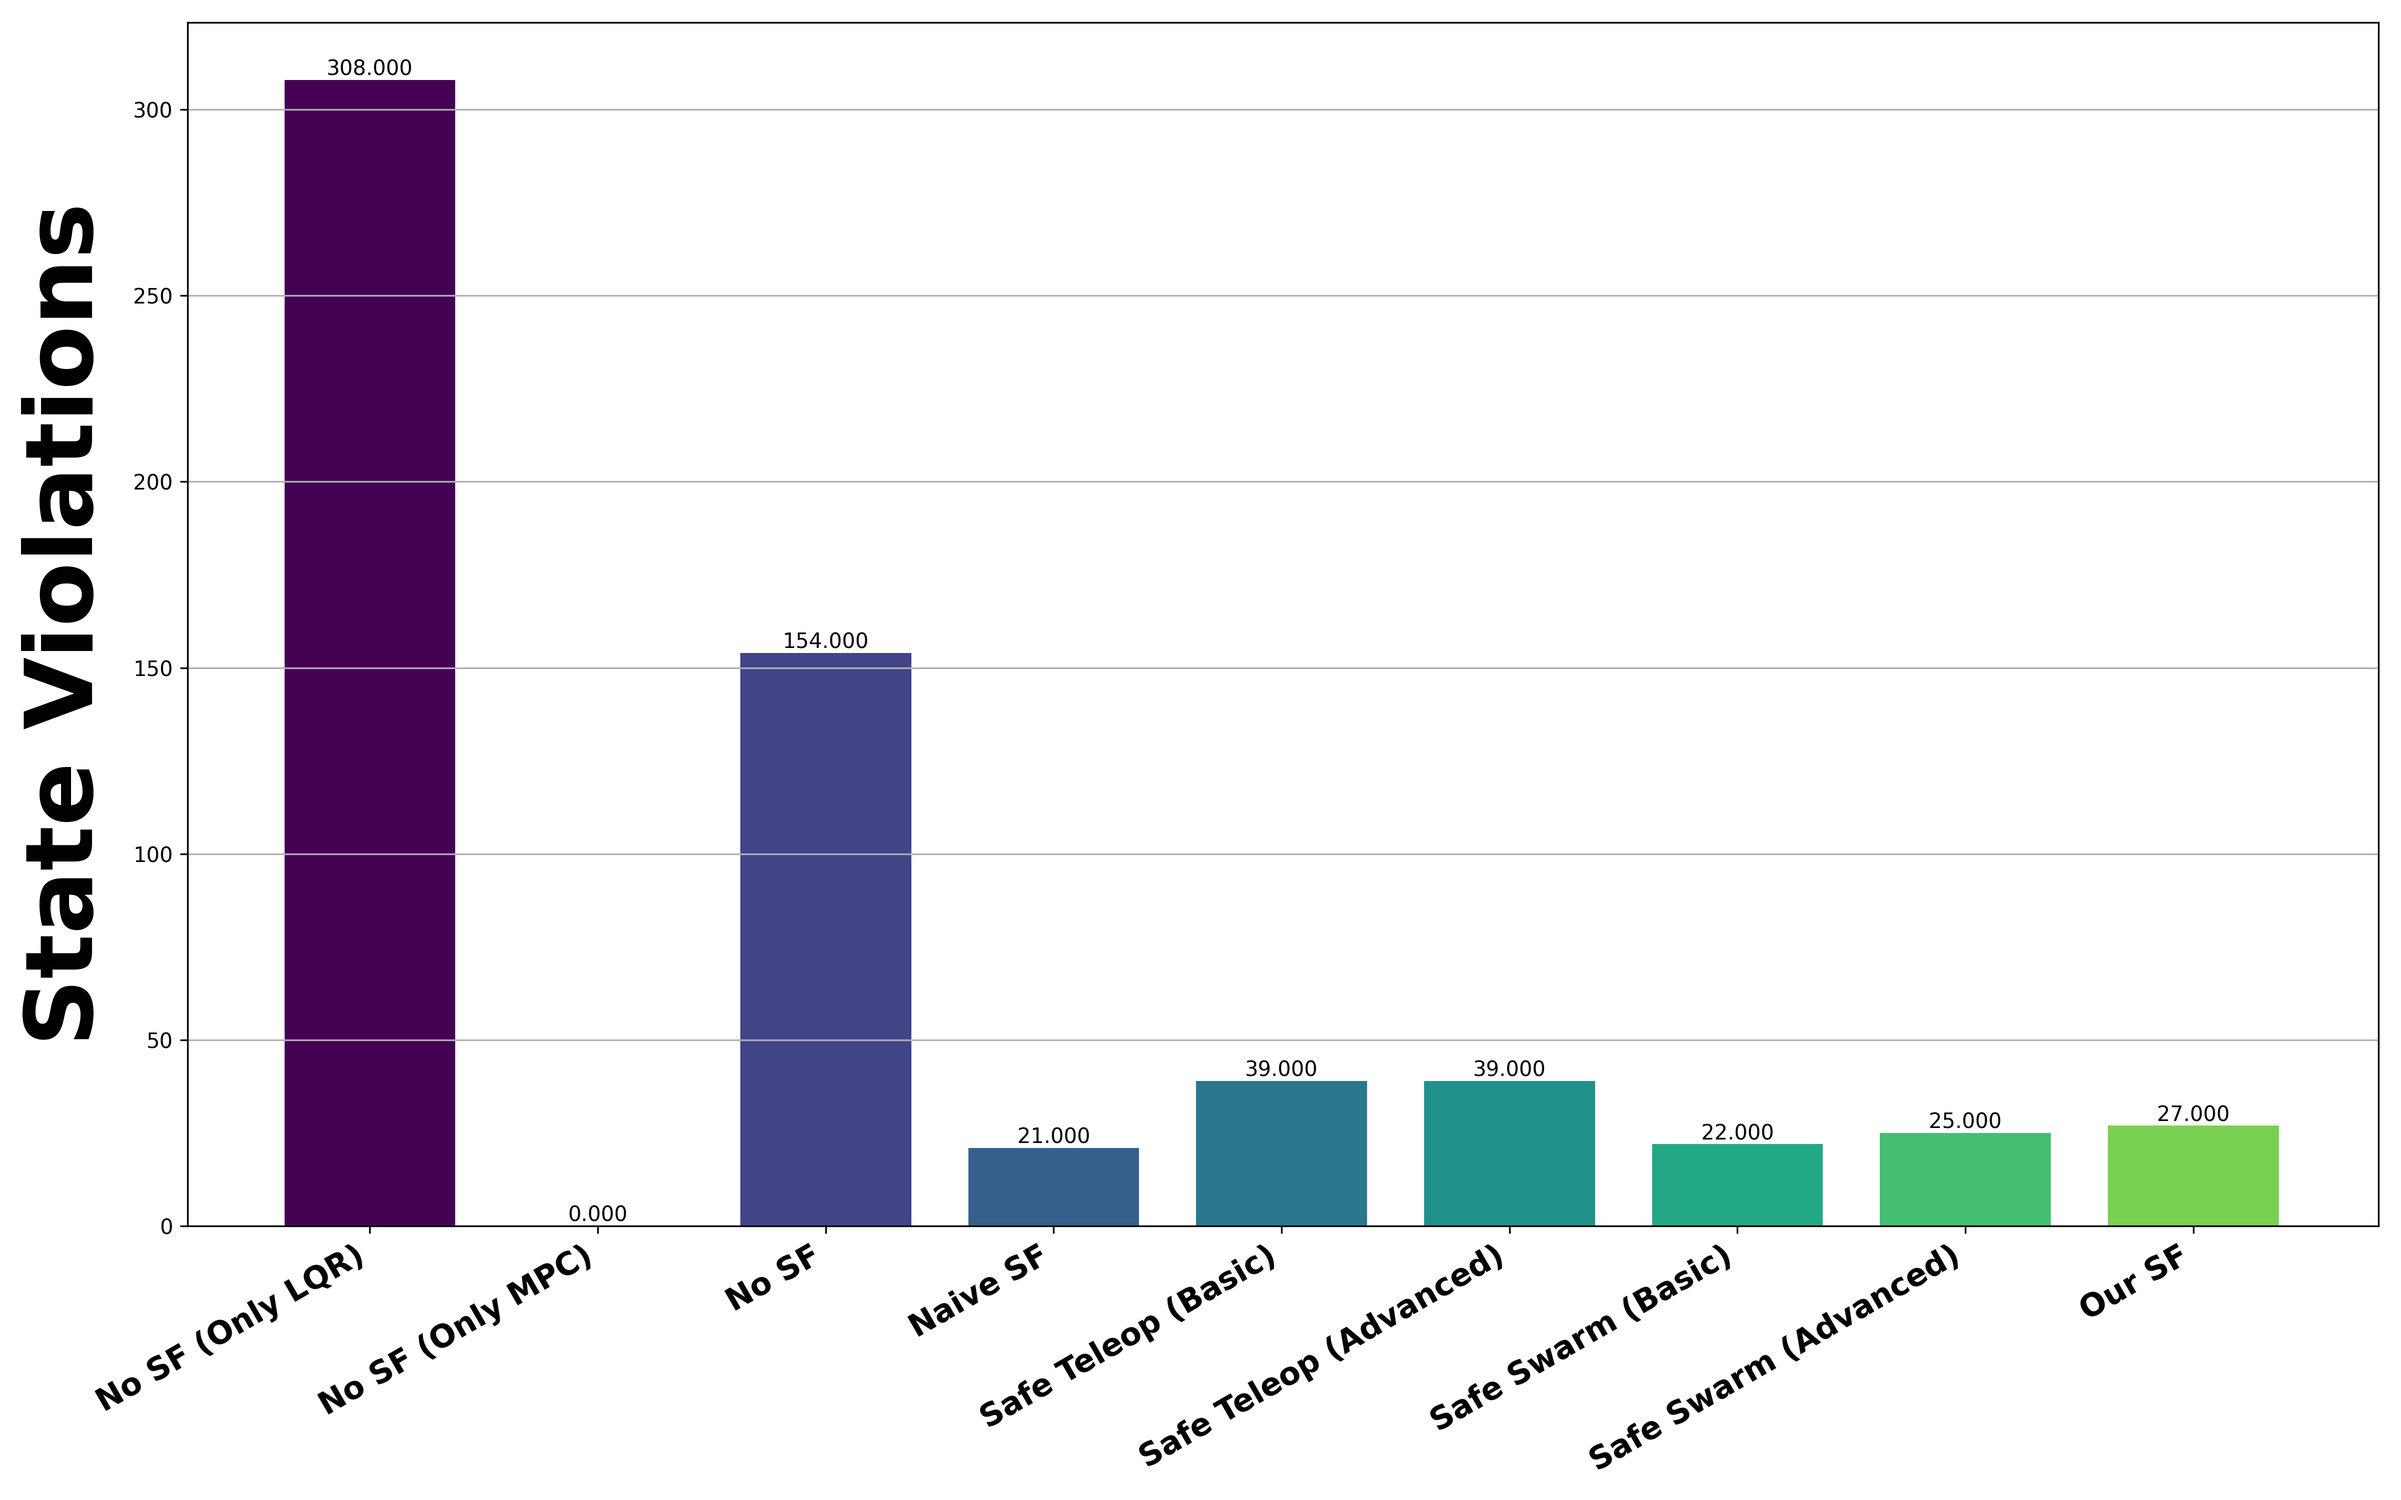
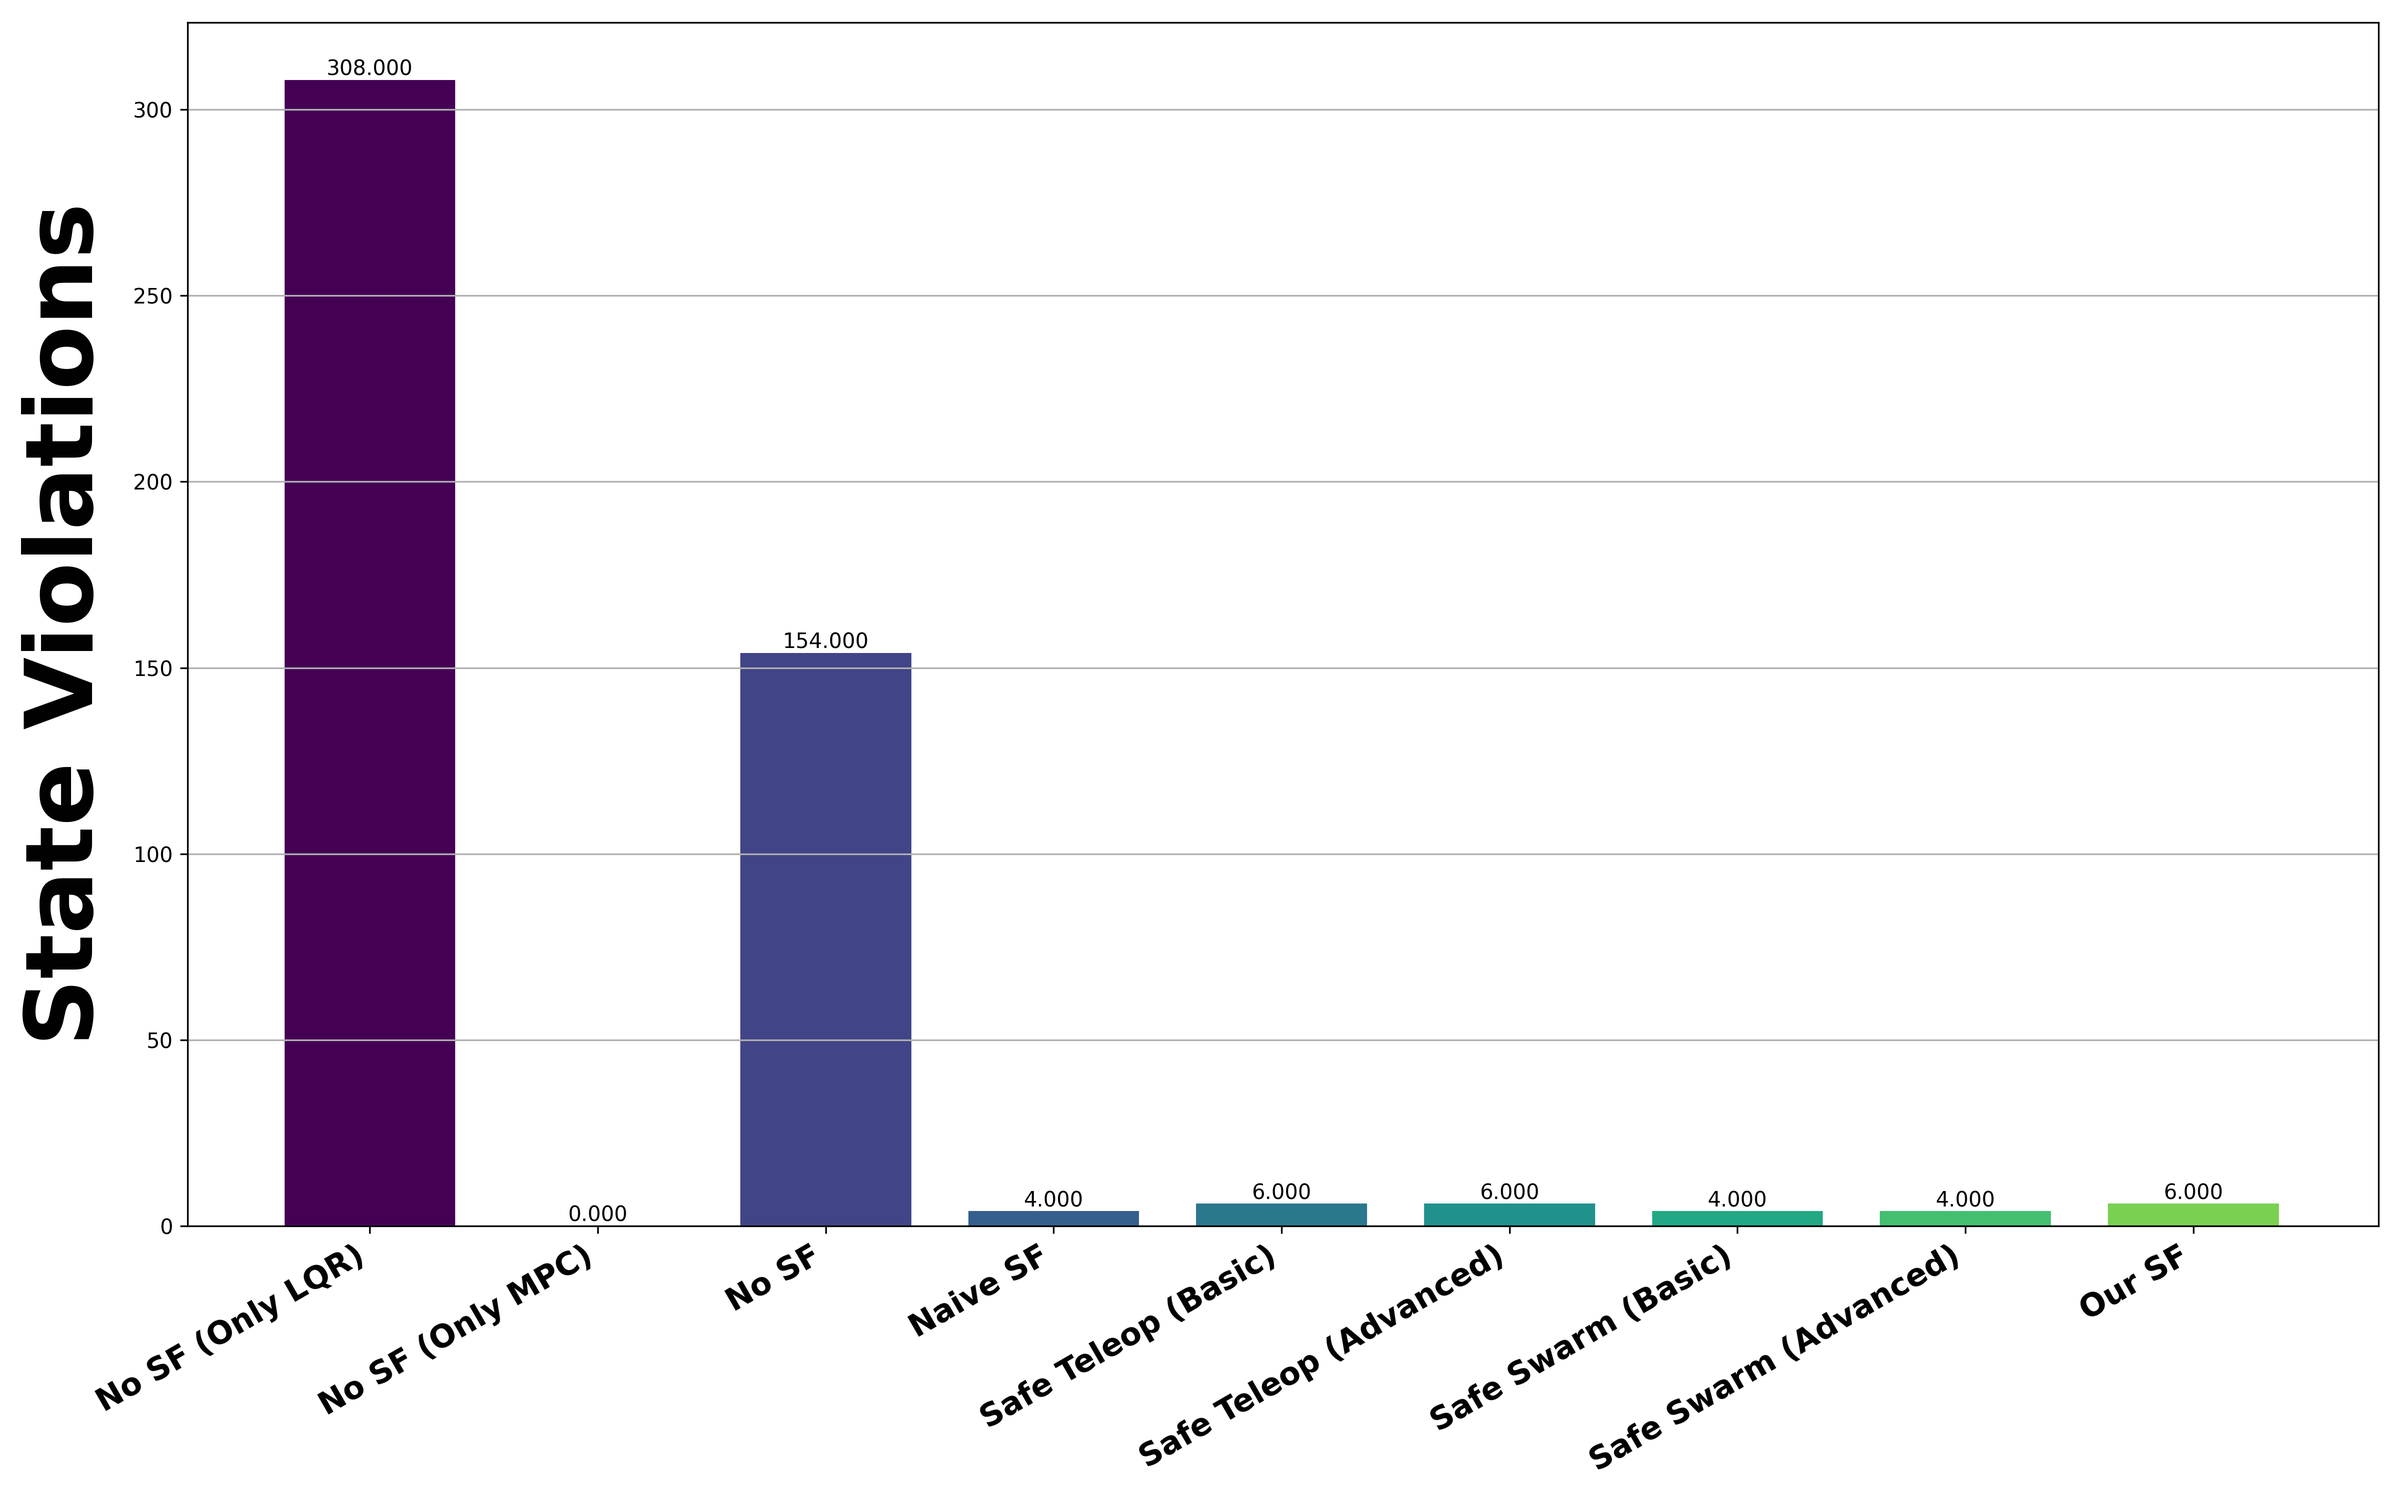
Focusing only on position constraints

Changed region(s): [[0.4062, 0.713, 0.9688, 0.806]]

diff --git a/experiments/subsys/plotting_results.py b/experiments/subsys/plotting_results.py
@@ -221,7 +221,8 @@ def extract_metric(data, key):
         rmse = calculate_RMSE(data['obs'], data['X_goal'][:data['experiment_len'], :, :])[~data['teleop_vec']]
         return np.mean(rmse)
     elif key == 'state_violations':
-        return np.sum(calculate_constraint_violations(data['obs'], data['state_constraints']))
+        viols = calculate_constraint_violations(data['obs'], data['state_constraints'])
+        return np.sum(viols[:, [0, 2, 3]])
     elif key == 'input_violations':
         return np.sum(calculate_constraint_violations(data['actions'], data['input_constraints']))
     elif key == 'collisions':
